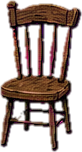
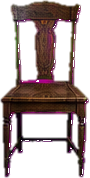
Photoreal art set: full integration, matte cleanup, lighting rework
- Manifest: betty_chase_a/b (flipbook now live at 6fps in chases),
  hands_key variant, carpet_rug; floor_carpet retired — all floors
  are photographic wood at denser tiling (walls too, ~1.5x)
- Hands are single right-hand images; the left mirrors hands_empty;
  hands_key shows while carrying either key (priority knife > pin >
  flashlight > key); show-on-walk/hide-on-idle behavior unchanged
- carpet_rug laid flat as cutout rugs in the bedroom, library, and
  dining room over the wood
- Lighting rework for photoreal: ambient down (hemi 0.85), warm room
  lamps, colder dimmer halls, basement floor darkened; flashlight
  beam much stronger (130 intensity, wider cone) and switches on a
  little earlier — the final-minute moment reads properly now
- betty_gameover is a full-bleed face on the death screen, fast
  fade/zoom in with the capture scream
- Art cleanup (export mattes, noted for the artist): erased the
  opaque magenta fringe hugging cutout edges across all 30 cutouts,
  eroded hand silhouettes by 2px, and cleared the gameover border —
  clean re-exports will drop in over these files
- Review harness: new 8-dark-flashlight checkpoint; alarm silenced
  in staged shots

diff --git a/src/map.js b/src/map.js
@@ -225,14 +225,32 @@ export function buildMap(scene) {
   makeDoors();
   const lamps = [];
 
-  // floors: wood everywhere (halls), carpet patches in rooms
-  const woodTex = tileTexture('floor_wood', W * CELL, H * CELL, 1.5);
+  // floors: photographic wood everywhere, tiled denser so the boards read real
+  const woodTex = tileTexture('floor_wood', W * CELL, H * CELL, 1.0);
   const floor = new THREE.Mesh(
     new THREE.PlaneGeometry(W * CELL, H * CELL),
     new THREE.MeshLambertMaterial(woodTex ? { map: woodTex } : { color: 0x2a211b }));
   floor.rotation.x = -Math.PI / 2;
   floor.position.set(W * CELL / 2, 0, H * CELL / 2);
   scene.add(floor);
+
+  // cutout rugs laid flat over the wood in a few rooms
+  if (TEX.carpet_rug) {
+    const rugA = TEX.carpet_rug.userData.aspect || 1.5;
+    for (const [cx, cz, wRug, rot] of [
+      [8, 6.5, 3.4, 0.06],     // guest bedroom
+      [18, 21, 3.8, -0.04],    // library, under the reading table
+      [45, 6, 4.2, 0.02],      // dining room, under the tables
+    ]) {
+      const rug = new THREE.Mesh(
+        new THREE.PlaneGeometry(wRug, wRug / rugA),
+        new THREE.MeshLambertMaterial({ map: TEX.carpet_rug, transparent: true, alphaTest: 0.5 }));
+      rug.rotation.x = -Math.PI / 2;
+      rug.rotation.z = rot;
+      rug.position.set(cx, 0.015, cz);
+      scene.add(rug);
+    }
+  }
 
   const ceil = new THREE.Mesh(new THREE.PlaneGeometry(W * CELL, H * CELL),
     new THREE.MeshLambertMaterial({ color: 0x1a1512 }));
@@ -242,14 +260,14 @@ export function buildMap(scene) {
 
   for (const rm of ROOMS) {
     const w = (rm.c1 - rm.c0 + 1) * CELL, d = (rm.r1 - rm.r0 + 1) * CELL;
-    const carpetTex = tileTexture('floor_carpet', w, d, 1.5);
-    // the basement's carpet is cold, faded, and dark — abandoned
-    const carpetTint = rm.name === 'Basement' ? 0x777791 : 0xffffff;
-    const p = new THREE.Mesh(new THREE.PlaneGeometry(w, d),
-      new THREE.MeshLambertMaterial(carpetTex ? { map: carpetTex, color: carpetTint } : { color: 0x3a2d22 }));
-    p.rotation.x = -Math.PI / 2;
-    p.position.set(rm.c0 * CELL + w / 2, 0.01, rm.r0 * CELL + d / 2);
-    scene.add(p);
+    // the basement floor is a cold, grimy shadow of the wood elsewhere
+    if (rm.name === 'Basement') {
+      const p = new THREE.Mesh(new THREE.PlaneGeometry(w, d),
+        new THREE.MeshLambertMaterial({ color: 0x1a1c26, transparent: true, opacity: 0.55 }));
+      p.rotation.x = -Math.PI / 2;
+      p.position.set(rm.c0 * CELL + w / 2, 0.01, rm.r0 * CELL + d / 2);
+      scene.add(p);
+    }
     const label = makeLabelSprite(rm.name, { color: '#c9b489', scale: 1.15 });
     const ctr = cellToWorld((rm.c0 + rm.c1) / 2, (rm.r0 + rm.r1) / 2);
     label.position.set(ctr.x, 2.85, ctr.z);
@@ -261,12 +279,12 @@ export function buildMap(scene) {
     lamp.userData.base = lamp.intensity;
     scene.add(lamp); lamps.push(lamp);
   }
-  // hallway lamps
+  // hallway lamps — colder and dimmer than the rooms: halls are dangerous
   for (const [c, r] of [[2, 6.5], [14, 6.5], [26, 6.5], [2, 14.5], [14, 14.5], [26, 14.5], [2, 10.5], [26, 10.5]]) {
     const { x, z } = cellToWorld(c, r);
-    const lamp = new THREE.PointLight(0xd9c9ff, 17, 14, 1.6);
+    const lamp = new THREE.PointLight(0xaebede, 11, 14, 1.6);
     lamp.position.set(x, 2.8, z);
-    lamp.userData.base = 17;
+    lamp.userData.base = 11;
     scene.add(lamp); lamps.push(lamp);
   }
 
@@ -300,10 +318,10 @@ export function buildMap(scene) {
     furnitureCells.add(f.c + ',' + f.r);
   }
 
-  // walls as one instanced mesh — skull wallpaper at ~2 world units per tile
+  // walls as one instanced mesh — photographic wallpaper, denser tiling
   const wallCells = [];
   for (let r = 0; r < H; r++) for (let c = 0; c < W; c++) if (GRID[r][c] === '#') wallCells.push([c, r]);
-  const wallTex = tileTexture('wallpaper', CELL, WALL_H, 2);
+  const wallTex = tileTexture('wallpaper', CELL, WALL_H, 1.35);
   const wallGeo = new THREE.BoxGeometry(CELL, WALL_H, CELL);
   const wallMat = new THREE.MeshLambertMaterial(wallTex ? { map: wallTex } : { color: 0x4d3d33 });
   const walls = new THREE.InstancedMesh(wallGeo, wallMat, wallCells.length);

diff --git a/src/hands.js b/src/hands.js
@@ -1,35 +1,34 @@
 // First-person hands, screen-space at the bottom of the view.
-// Rules: hidden at idle with empty hands · both hands swing while walking
-// (opposite phase, ~1.5Hz, slight bob) · a held item pins the right hand on
-// screen, left joins only while walking · show/hide slides in ~200ms.
-// The art slots are single images containing both hands; each plane shows
-// one UV half, so the slots stay identical when the art is replaced.
+// Art is now single RIGHT-hand images (backs of hands); the left hand is
+// hands_empty mirrored horizontally. Rules: hidden at idle with empty hands ·
+// both hands swing while walking (opposite phase, ~1.5Hz, slight bob) · a
+// held item pins the right hand with that variant, left joins only while
+// walking · show/hide slides in ~200ms.
 import * as THREE from 'three';
 import { TEX } from './assets.js';
 
 const POSE = {
   none: 'hands_empty',
+  key: 'hands_key',
   flashlight: 'hands_flashlight',
   knife: 'hands_knife',
   rolling_pin: 'hands_pin',
 };
-const SHOWN_Y = -0.55, HIDDEN_Y = -0.8;      // slide up from below the view edge
-const EASE_T = 0.2, SWING_HZ = 1.5, H = 0.3;
+const SHOWN_Y = -0.55, HIDDEN_Y = -0.9;      // slide up from below the view edge
+const EASE_T = 0.2, SWING_HZ = 1.5, W = 0.2; // fixed hand width; item art extends upward
 const smooth = (t) => t * t * (3 - 2 * t);
 
-const halves = new Map();
-function halfTex(slot, side) {
-  const key = slot + side;
-  if (halves.has(key)) return halves.get(key);
-  const base = TEX[slot];
+let mirroredEmpty = null;
+function leftTex() {
+  if (mirroredEmpty) return mirroredEmpty;
+  const base = TEX.hands_empty;
   if (!base) return null;
-  const t = base.clone();
-  t.repeat.x = 0.5;
-  t.offset.x = side === 'r' ? 0.5 : 0;
-  t.needsUpdate = true;
-  t.userData = { aspect: (base.userData.aspect || 1.9) / 2 };
-  halves.set(key, t);
-  return t;
+  mirroredEmpty = base.clone();
+  mirroredEmpty.repeat.x = -1;
+  mirroredEmpty.offset.x = 1;
+  mirroredEmpty.needsUpdate = true;
+  mirroredEmpty.userData = { aspect: base.userData.aspect || 0.93 };
+  return mirroredEmpty;
 }
 
 export class Hands {
@@ -44,7 +43,8 @@ export class Hands {
       const geo = new THREE.PlaneGeometry(1, 1);
       geo.translate(0, 0.5, 0);                // bottom pivot
       const m = new THREE.Mesh(geo, new THREE.MeshBasicMaterial({
-        transparent: true, depthTest: false, depthWrite: false,   // soft edges for UI sprites
+        // blend for softness, with a mild alphaTest to trim the magenta matte fringe
+        transparent: true, alphaTest: 0.3, depthTest: false, depthWrite: false,
       }));
       m.renderOrder = 40;
       m.position.set(x, HIDDEN_Y, -0.7);
@@ -57,19 +57,21 @@ export class Hands {
     this.setHeld(null);
   }
 
-  // slot: 'knife' | 'rolling_pin' | 'flashlight' | null
+  #apply(mesh, tex) {
+    if (!tex) return false;
+    const mat = mesh.material;
+    if (mat.map !== tex) { mat.map = tex; mat.needsUpdate = true; }
+    const a = tex.userData.aspect || 0.9;
+    mesh.scale.set(W, W / a, 1);               // fixed width; height grows with the item
+    return true;
+  }
+
+  // slot: 'knife' | 'rolling_pin' | 'flashlight' | 'key' | null
   setHeld(slot) {
     this.heldSlot = slot;
-    const pose = POSE[slot ?? 'none'];
-    const texL = halfTex(pose, 'l') || halfTex(POSE.none, 'l');
-    const texR = halfTex(pose, 'r') || halfTex(POSE.none, 'r');
-    this.noArt = !texL || !texR;
-    if (this.noArt) return;
-    for (const [mesh, tex] of [[this.left, texL], [this.right, texR]]) {
-      const mat = mesh.material;
-      if (mat.map !== tex) { mat.map = tex; mat.needsUpdate = true; }
-      mesh.scale.set(H * tex.userData.aspect, H, 1);
-    }
+    const okR = this.#apply(this.right, TEX[POSE[slot ?? 'none']] || TEX[POSE.none]);
+    const okL = this.#apply(this.left, leftTex());
+    this.noArt = !okR || !okL;
   }
 
   update(dt, moving) {

diff --git a/src/main.js b/src/main.js
@@ -59,11 +59,11 @@ class Game {
 
     const { lamps } = MAP.buildMap(this.scene);
     this.lamps = lamps;
-    // the textures are dark — keep the base light generous, iPad-in-a-dim-room readable
-    this.hemi = new THREE.HemisphereLight(0xa89cc8, 0x3a2a20, 1.25);
+    // photoreal textures want contrast: lower ambient, let the lamps carve the rooms
+    this.hemi = new THREE.HemisphereLight(0x9a90b8, 0x2a2018, 0.85);
     this.scene.add(this.hemi);
 
-    this.flash = new THREE.SpotLight(0xfff2cc, 0, 24, 0.5, 0.4);
+    this.flash = new THREE.SpotLight(0xfff2cc, 0, 26, 0.55, 0.45, 1.5);
     this.flash.position.set(0, 0, 0);
     this.flashTarget = new THREE.Object3D();
     this.flashTarget.position.set(0, 0, -2);
@@ -102,7 +102,12 @@ class Game {
   // right hand shows the most dramatic thing you're carrying
   setHeld() {
     const S = this.tasks.state;
-    this.hands.setHeld(S.hasKnife ? 'knife' : S.pinStolen ? 'rolling_pin' : this.hasFlashlight ? 'flashlight' : null);
+    const hasKey = this.tasks.list[0].done || this.tasks.list[4].done;
+    this.hands.setHeld(
+      S.hasKnife ? 'knife'
+        : S.pinStolen ? 'rolling_pin'
+          : this.hasFlashlight ? 'flashlight'
+            : hasKey ? 'key' : null);
   }
 
   startFinale() {
@@ -197,7 +202,7 @@ class Game {
     for (const l of this.lamps) l.intensity = l.userData.base * darkK;
     this.hemi.intensity = 0.55 * Math.max(darkK, 0.25);
     this.scene.fog.density = 0.028 + (1 - darkK) * 0.045;
-    this.flash.intensity = (this.hasFlashlight && darkK < 0.6) ? 60 : 0;
+    this.flash.intensity = (this.hasFlashlight && darkK < 0.7) ? 130 : 0;
 
     // Betty's rumble muffles through closed doors and walls
     this.muffleT -= dt;

diff --git a/assets/manifest.js b/assets/manifest.js
@@ -10,12 +10,13 @@ export const MANIFEST = {
     title:          'assets/title.png',          // Sophie's lettering (still pending)
     // Betty — always camera-facing; chase flipbook alternates a/b at 6fps
     betty_roam:     B + 'betty_roam.png',
-    betty_chase_a:  B + 'betty_chase.png',
-    betty_chase_b:  B + 'betty_chase_b.png',     // frame B pending; procedural-only until it lands
-    betty_gameover: B + 'betty_gameover.png',    // game-over screen art
-    // first-person hands — full overlay, swapped by held item
+    betty_chase_a:  B + 'betty_chase_a.png',
+    betty_chase_b:  B + 'betty_chase_b.png',
+    betty_gameover: B + 'betty_gameover.png',    // full-bleed face on the death screen
+    // first-person hands — single right-hand images (left mirrors hands_empty)
     hands_empty:      HA + 'hands_empty.png',
     hands_flashlight: HA + 'hands_flashlight.png',
+    hands_key:        HA + 'hands_key.png',
     hands_knife:      HA + 'hands_knife.png',
     hands_pin:        HA + 'hands_pin.png',
     // task props
@@ -39,7 +40,7 @@ export const MANIFEST = {
     // environment
     wallpaper:    E + 'wallpaper.png',
     floor_wood:   E + 'floor_wood.png',
-    floor_carpet: E + 'floor_carpet.png',
+    carpet_rug:   E + 'carpet_rug.png',    // cutout rug object, laid flat in a few rooms
     door:         E + 'door.png',
     window:       E + 'window.png',
     portrait_1:   E + 'portrait_1.png',

diff --git a/index.html b/index.html
@@ -36,6 +36,11 @@ button:active{background:#511}
 #lockHint{position:absolute;left:50%;bottom:8vh;transform:translateX(-50%);color:#998;font-size:15px;background:#0009;padding:6px 12px;border-radius:8px}
 .stick{position:fixed;border:2px solid #ffffff2e;border-radius:50%;pointer-events:none;z-index:25;background:#ffffff10}
 .pixelimg{max-height:30vh;filter:drop-shadow(0 0 18px #400)}
+#gameover{overflow:hidden}
+#gameover #overImg{position:absolute;inset:0;width:100%;height:100%;max-height:none;object-fit:cover;object-position:center 20%;z-index:0;filter:brightness(.85)}
+#gameover:not(.hidden) #overImg{animation:facein .3s ease-out both}
+@keyframes facein{from{opacity:0;transform:scale(1.5)}to{opacity:1;transform:scale(1.3)}}
+#gameover h1,#gameover .byline,#gameover button{position:relative;z-index:1;text-shadow:0 2px 14px #000,0 0 30px #000}
 </style>
 <script type="importmap">
 { "imports": { "three": "https://cdn.jsdelivr.net/npm/three@0.169.0/build/three.module.js" } }

diff --git a/src/tasks.js b/src/tasks.js
@@ -116,6 +116,7 @@ export function createTasks(game, scene) {
           bedroomDoor.locked = false;
           bedroomDoor.mesh.material = bedroomDoor.mats.doorMat;
           done(0, SEARCH_MSGS[2]);
+          game.setHeld();                       // the key appears in your hand
         } else {
           hud.toast(SEARCH_MSGS[search.count - 1]);
         }
@@ -144,7 +145,7 @@ export function createTasks(game, scene) {
   makeItem('Old Trunk', 0x6b4a2a, 22, 10, {
     slot: 'trunk', kind: 'stand', h: 1.15, ph: 0.8, keep: true,
     prompt: 'Open the trunk', active: () => !T[4].done,
-    act: () => done(4, 'An old key, deep in the trunk. That lap was worth it.'),
+    act: () => { done(4, 'An old key, deep in the trunk. That lap was worth it.'); game.setHeld(); },
   });
   makeItem("Betty's Tray", 0xd884b0, 12, 1, {
     slot: 'cookie_tray', kind: 'stand', h: 0.85, ph: 0.9, baseY: 0.95, keep: true,   // on the counter

diff --git a/scripts/review.js b/scripts/review.js
@@ -79,6 +79,19 @@ async function beginGame(page) {
     await stage(page, 43.8, 21.8, 45, 21, -0.18);
     await shot('5-prop-trunk');
 
+    // final-minute darkness: flashlight on in a cold hall
+    await page.evaluate(() => {
+      const g = window.game;
+      g.hasFlashlight = true; g.setHeld();
+      g.tasks.list[2].done = true; g.stopAlarm();   // keep the smoke alarm out of the shot
+      g.remaining = 30;
+      g.player.pos.set(14, 1.6, 14.5);
+      g.player.yaw = -Math.PI / 2; g.player.pitch = -0.02;
+      g.betty.pos.set(30, 0, 14.4);
+      for (let i = 0; i < 30; i++) g.update(1 / 60);
+    });
+    await shot('8-dark-flashlight');
+
     // chase pose + knife in hand, mid-hall
     await page.evaluate(() => {
       const g = window.game;

diff --git a/src/assets.js b/src/assets.js
@@ -64,12 +64,14 @@ export function tileTexture(slot, worldW, worldH, unitsPerTile) {
   return t;
 }
 
-// transparent-PNG cutout material (sprites, props, portraits, windows, doors)
+// transparent-PNG cutout material (sprites, props, portraits, windows, doors).
+// alphaTest is high because the photoreal art carries a magenta matte fringe
+// in its semi-transparent edge pixels — trim them instead of rendering them.
 export function cutoutMaterial(slot, opts = {}) {
   const t = TEX[slot];
   if (!t) return null;
   return new THREE.MeshLambertMaterial({
-    map: t, transparent: true, alphaTest: 0.5, side: THREE.DoubleSide, ...opts,
+    map: t, transparent: true, alphaTest: 0.68, side: THREE.DoubleSide, ...opts,
   });
 }
 

diff --git a/src/betty.js b/src/betty.js
@@ -57,7 +57,7 @@ export class Betty {
     geo.translate(0, 0.5, 0);                    // pivot at her feet
     this.sprite = new THREE.Mesh(
       geo,
-      new THREE.MeshBasicMaterial({ transparent: true, alphaTest: 0.5, side: THREE.DoubleSide }),
+      new THREE.MeshBasicMaterial({ transparent: true, alphaTest: 0.65, side: THREE.DoubleSide }),
     );
     this.group.add(this.sprite);
     this.#setView(this.roamView);
